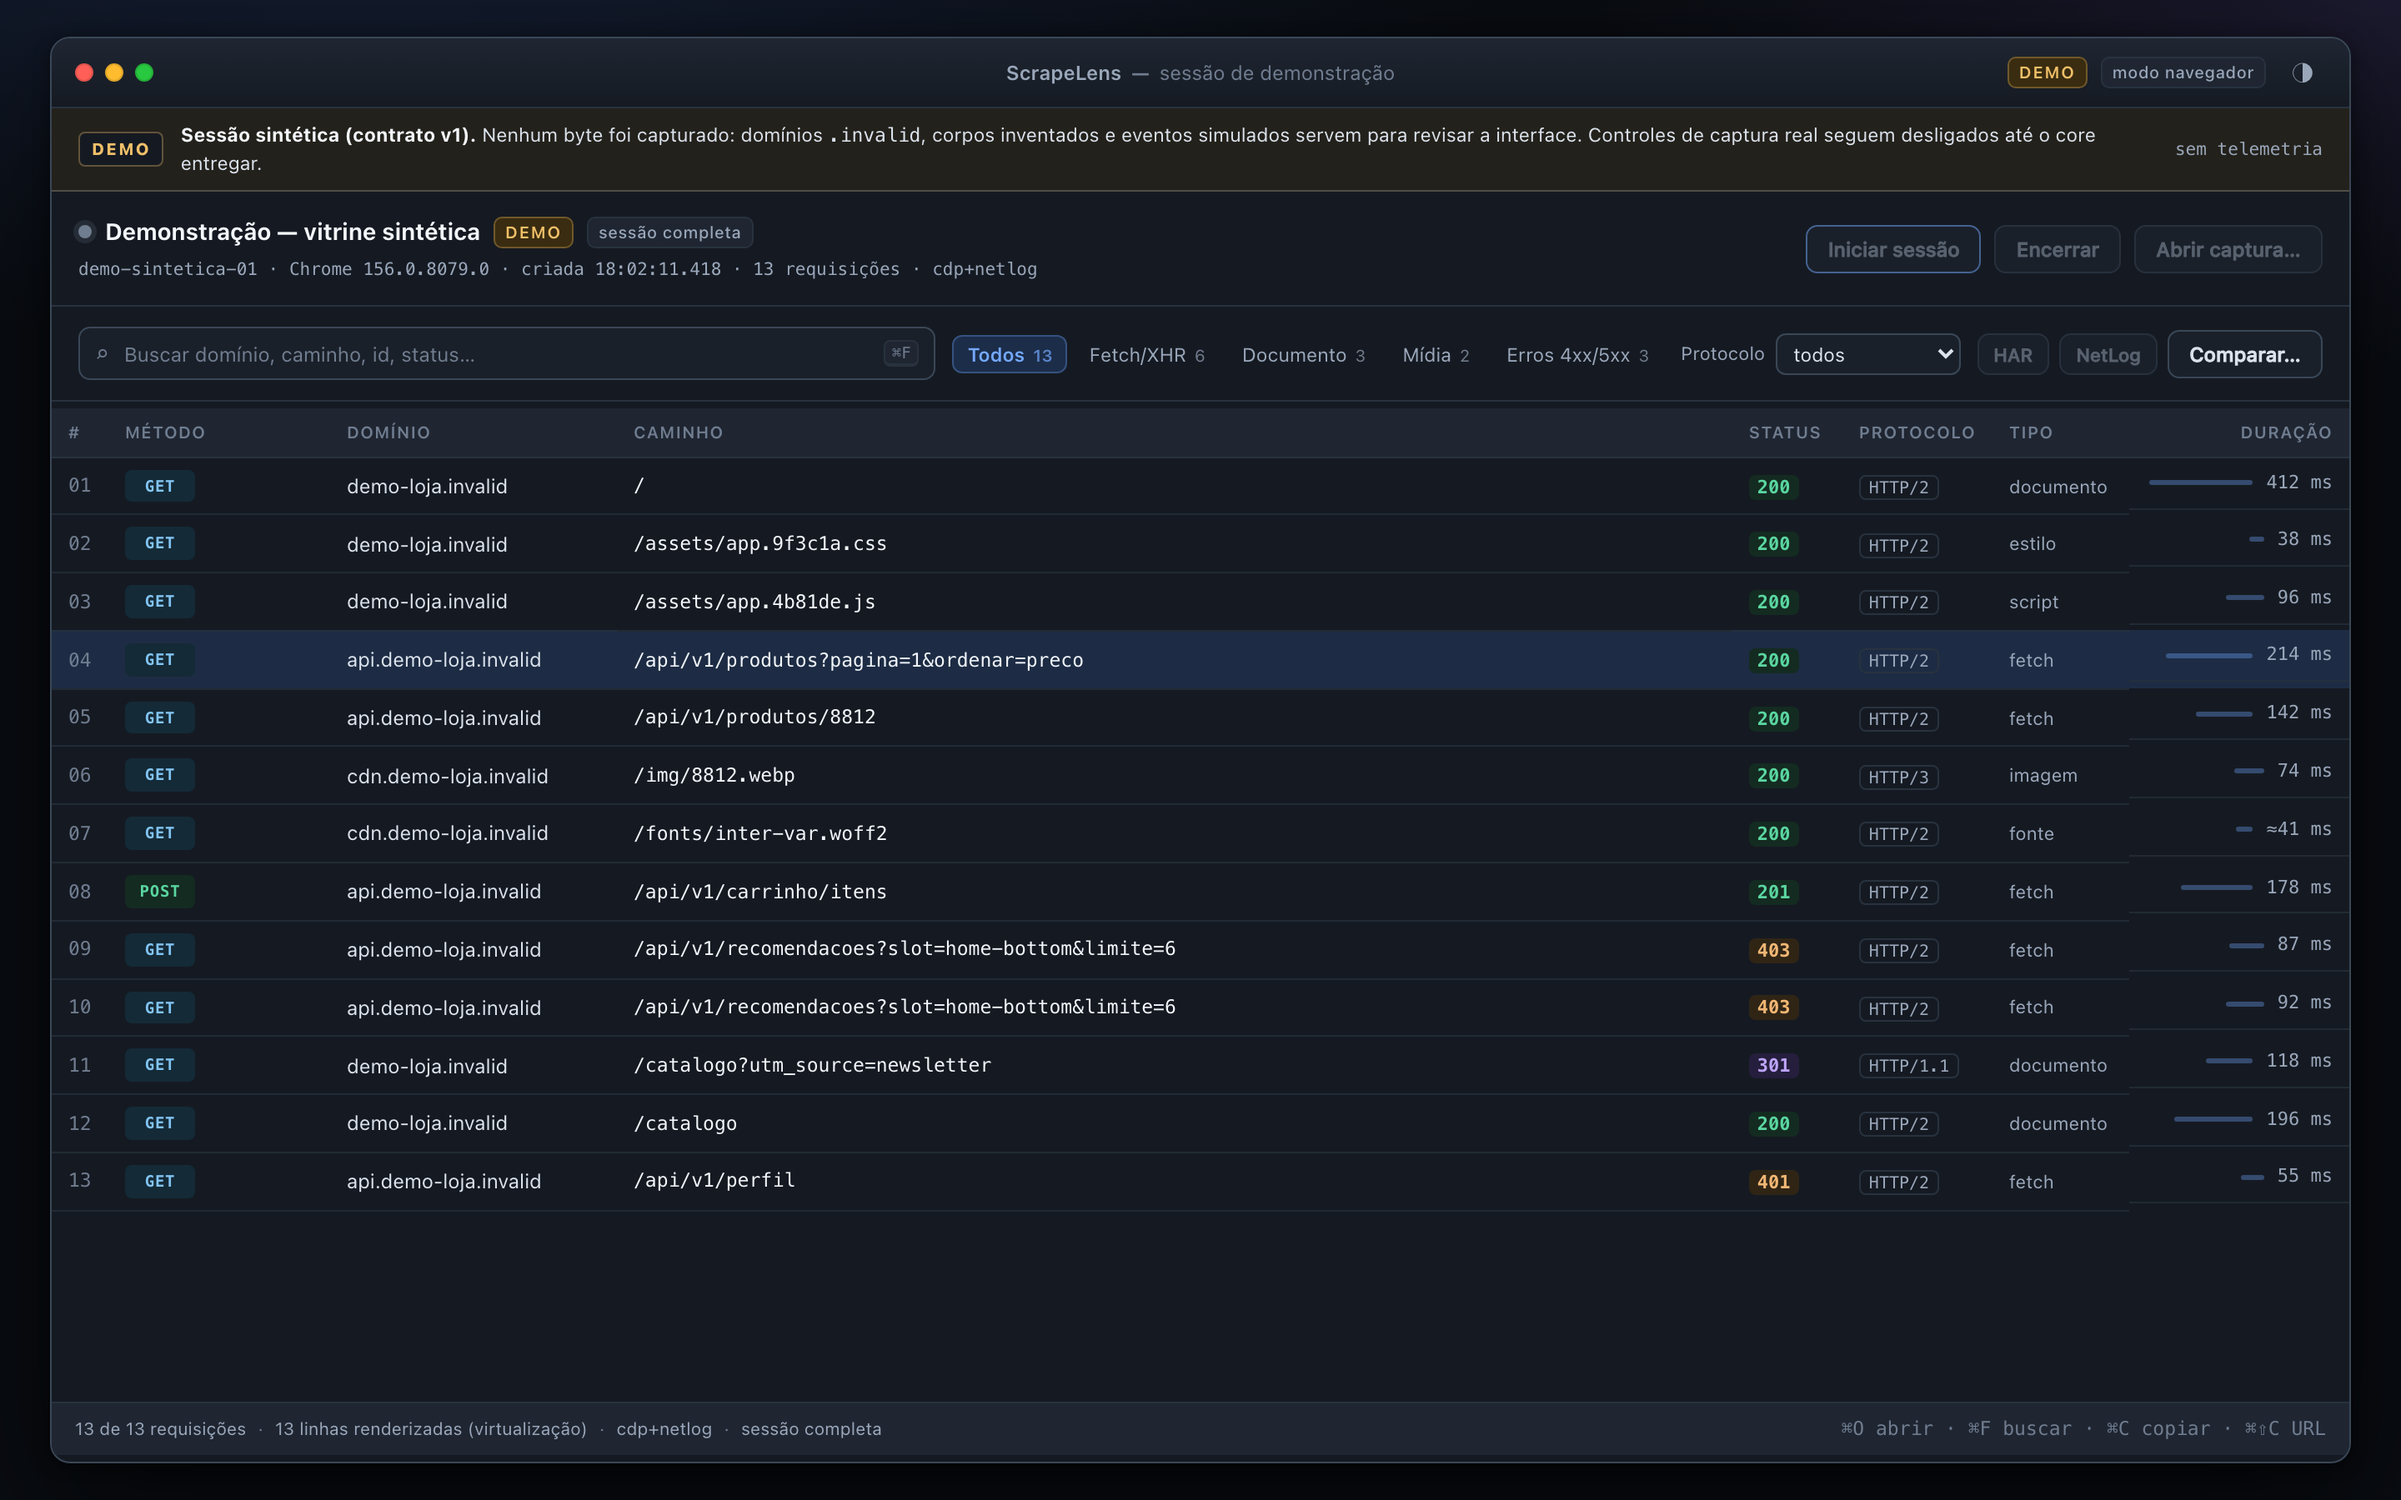
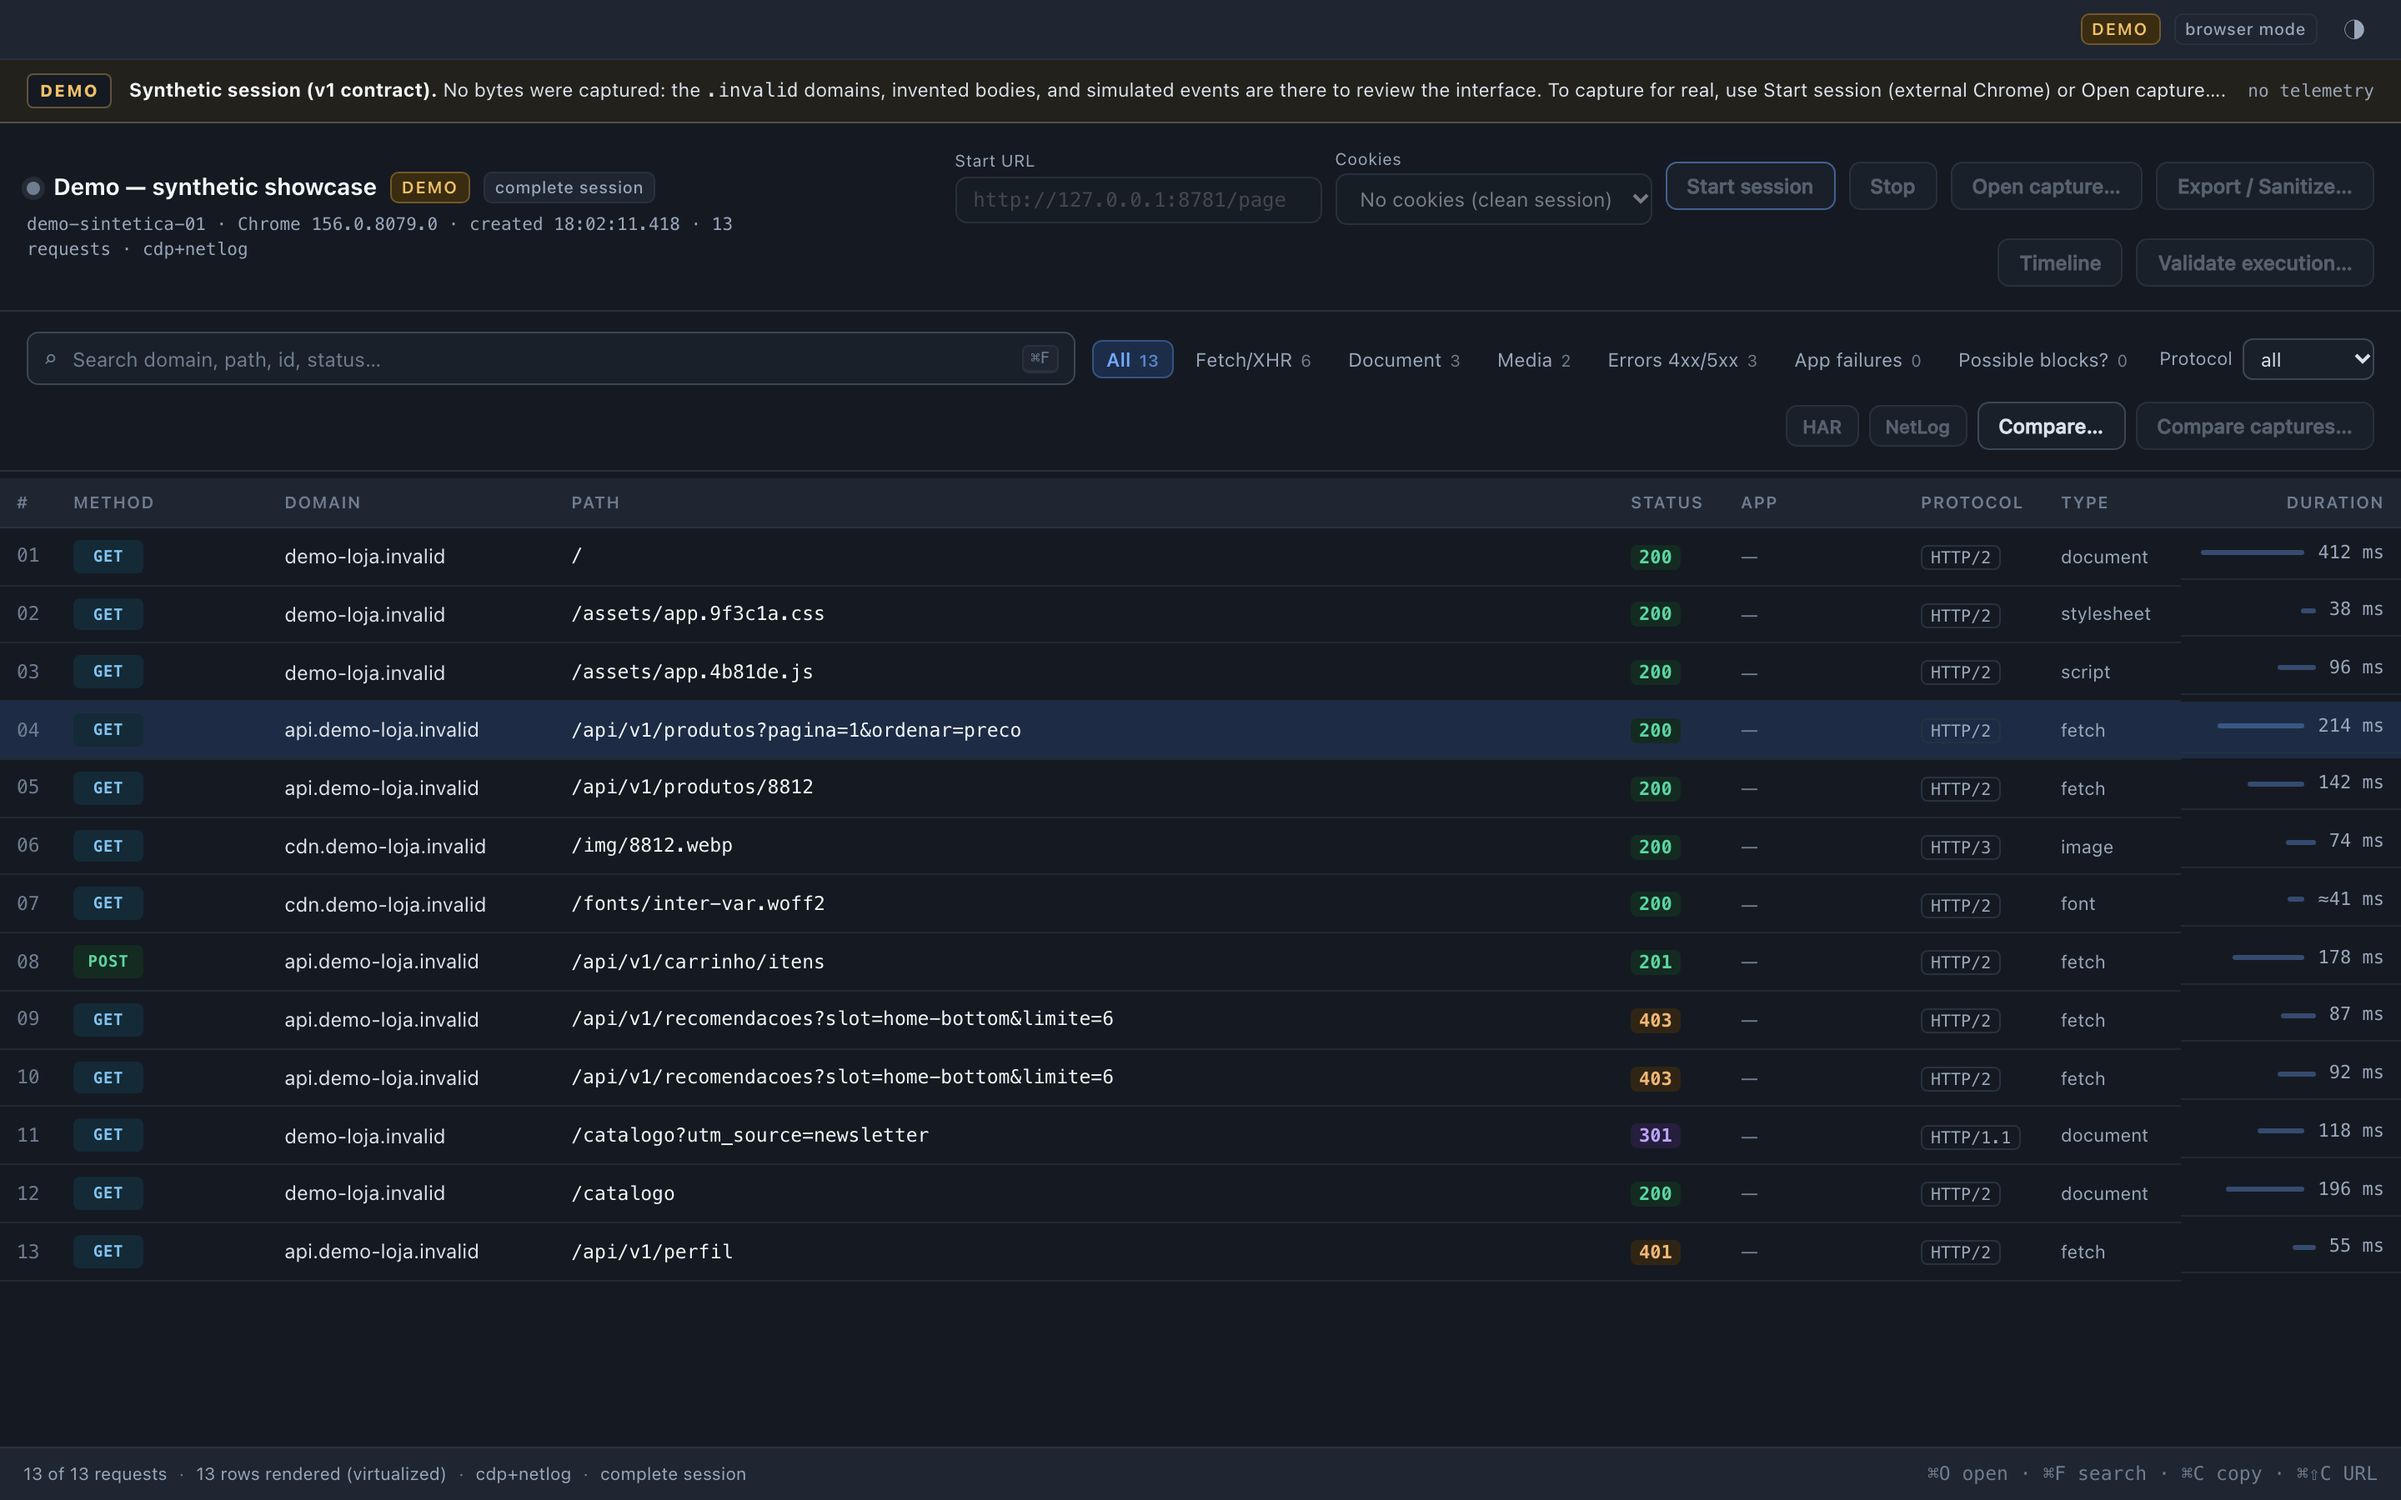
docs(screenshots): regenerate headless screenshots in English
Render screenshots 01-13 and 15 from the English UI with en-US locale and
UTC, using the names from the path map. Update the screenshot captions to
the labels visible in the images.

diff --git a/docs/screenshots/README.md b/docs/screenshots/README.md
@@ -18,9 +18,9 @@ HAR/NetLog imports; no synthetic data is presented as a capture.
 | `08-detail-redirects-dark.png` | HTTP/1.1 → HTTP/2 chain with two hops and evidence per hop |
 | `09-comparison-light.png` | A/B comparison: added, removed, changed, reordered; cookies and body |
 | `10-comparison-dark.png` | Same comparison in the dark theme |
-| `11-detail-verification-dark.png` | NetLog-only case: missing headers, “não verificada” (not verified), estimated duration `≈` |
-| `12-main-search-light.png` | Search “produtos” (products) with count “2 de 13” (2 of 13) |
-| `13-main-filter-errors-dark.png` | “Erros 4xx/5xx” (Errors 4xx/5xx) filter (403, 403, 401) |
+| `11-detail-verification-dark.png` | NetLog-only case: missing headers, “not verified” status, estimated duration `≈` |
+| `12-main-search-light.png` | Search “produtos” (a term from the synthetic URL paths) with count “2 of 13” |
+| `13-main-filter-errors-dark.png` | “Errors 4xx/5xx” filter (403, 403, 401) |
 | `14-list-12k-virtualizada.png` | Virtualized list with 12,000 synthetic requests (24 rows in the DOM) |
 | `15-detail-attempts-ambiguous.png` | Attempts + ambiguous match with explicit candidates |
 | `16-tauri-shell-dark.png` | Real Tauri 2 shell window (local ad-hoc build) with native title, single window and demo session |
